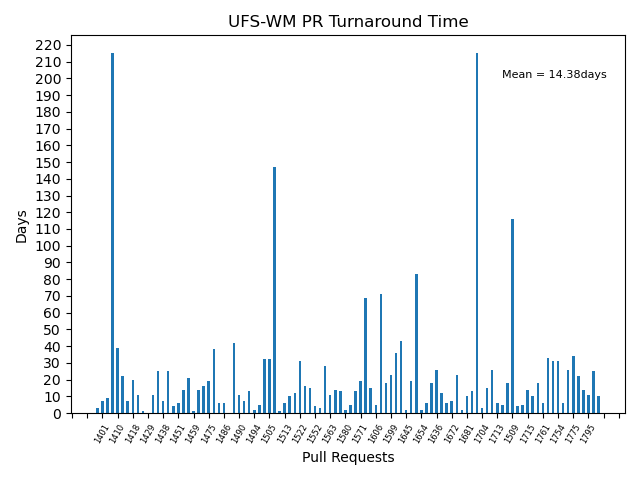
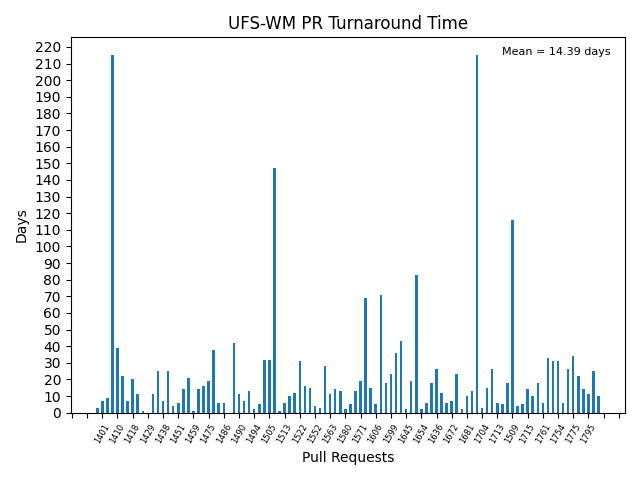
refactor for upp and srw

diff --git a/script/plot_bar.py b/script/plot_bar.py
@@ -1,38 +1,50 @@
 # Import the necessary modules
 import matplotlib.pyplot as plt
-import pandas as pd
-import numpy as np
 import matplotlib.ticker as ticker
+import numpy as np
 import numpy.ma as ma
-  
+import pandas as pd
+import sys
+
 # Initialize the lists for X and Y
-data = pd.read_csv('ufs-wm.csv')
-  
+try:
+    app = sys.argv[1]
+except:
+    print('Usage: plot_bar.py <app (ufs-wm, srw, upp)> <mean outlier cutoff in days>')
+    exit(1)
+
+mean_outlier = 50
+try:
+    data = pd.read_csv(f"../ufs-weather-model/{app}-prtime.csv")
+except:
+    print(f"Invalid app or .csv dataset not available for 'f{app}'")
+    exit(1)
+
 df = pd.DataFrame(data)
-  
+
 x = list(df.iloc[:, 0])
 y = list(df.iloc[:, 2])
-pr= list(df.iloc[:, 1])
+pr = list(df.iloc[:, 1])
 
-y_=np.array(y)
-y_mean = np.mean(ma.masked_where(y_ > 50, y_))
+y_ = np.array(y)
+y_mean = np.mean(ma.masked_where(y_ > mean_outlier, y_))
 print(y_mean)
-  
-fig, ax = plt.subplots(1,1) 
-ax.bar(x,y,width=0.5)
-plt.text(20, 200, 'Mean = 14.38days', fontsize=8)
+
+fig, ax = plt.subplots(1, 1)
+ax.bar(x, y, width=0.5)
+plt.text(20, y_.max(), f"Mean = {y_mean:.2f} days", fontsize=8)
 ax.set_xticks(x)
 # Set ticks labels for x-axis
 ax.set_xticklabels(pr, rotation=60, fontsize=6)
-tick_spacing=3
+tick_spacing = 3
 ax.xaxis.set_major_locator(ticker.MultipleLocator(tick_spacing))
 ax.yaxis.set_major_locator(ticker.MultipleLocator(10))
 # Show the plot
 ax.invert_xaxis()
-plt.title("UFS-WM PR Turnaround Time")
+plt.title(f"{app.upper()} PR Turnaround Time")
 plt.xlabel("Pull Requests")
 plt.ylabel("Days")
 plt.tight_layout()
 
-plt.savefig('ufs-wm-pr.png')
+plt.savefig(f"../ufs-weather-model/{app}-prtime.png")
 plt.show()
